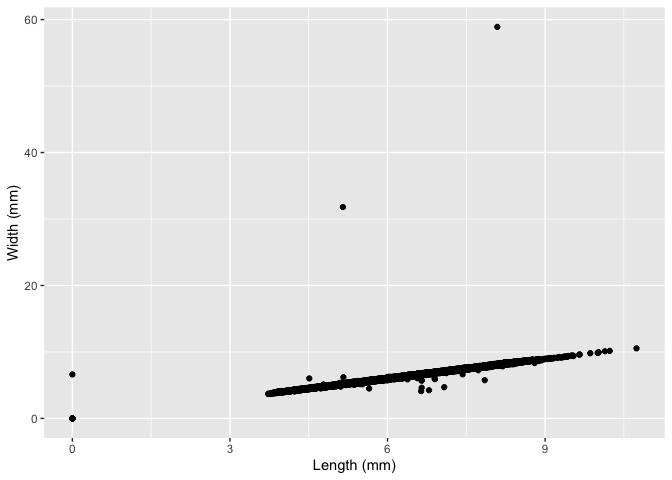
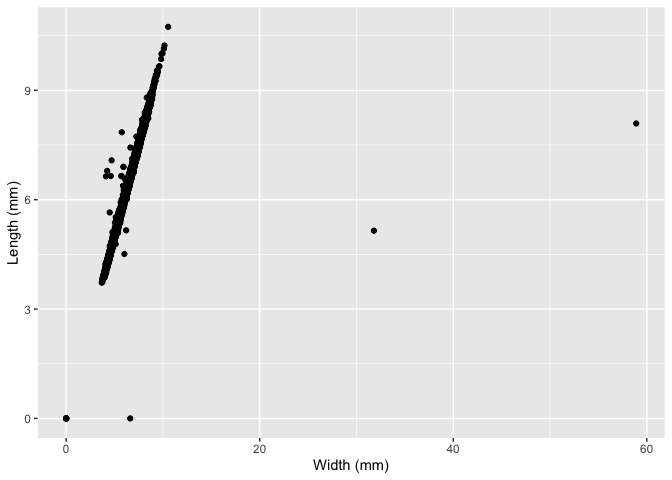
Flipped plot axes

diff --git a/hw_5.md b/hw_5.md
@@ -70,16 +70,16 @@ glimpse(random_subset)
 
     ## Rows: 539
     ## Columns: 10
-    ## $ carat   <dbl> 1.01, 1.02, 0.82, 0.62, 0.30, 1.00, 1.07, 0.32, 1.54, 0.51, 0.…
-    ## $ cut     <ord> Premium, Good, Very Good, Premium, Very Good, Very Good, Premi…
-    ## $ color   <ord> G, D, E, E, E, E, F, E, J, E, D, F, H, H, D, G, H, F, D, H, F,…
-    ## $ clarity <ord> SI1, SI2, SI2, VVS2, SI1, VS1, SI2, SI2, VVS1, VS2, VVS2, VVS2…
-    ## $ depth   <dbl> 62.6, 61.5, 63.3, 62.0, 62.9, 63.2, 61.7, 62.0, 62.4, 62.1, 60…
-    ## $ table   <dbl> 60, 61, 56, 56, 56, 55, 58, 55, 59, 54, 56, 57, 59, 60, 60, 60…
-    ## $ price   <int> 4338, 4318, 2975, 2618, 526, 7532, 4446, 576, 9215, 1608, 1088…
-    ## $ x       <dbl> 6.39, 6.34, 5.99, 5.48, 4.25, 6.34, 6.58, 4.41, 7.36, 5.13, 4.…
-    ## $ y       <dbl> 6.35, 6.41, 5.95, 5.42, 4.30, 6.29, 6.55, 4.36, 7.38, 5.15, 4.…
-    ## $ z       <dbl> 3.99, 3.92, 3.78, 3.38, 2.69, 3.99, 4.05, 2.72, 4.60, 3.19, 2.…
+    ## $ carat   <dbl> 0.52, 0.71, 0.34, 0.71, 1.20, 0.50, 0.42, 0.71, 0.32, 0.55, 2.…
+    ## $ cut     <ord> Ideal, Premium, Ideal, Ideal, Very Good, Ideal, Very Good, Ide…
+    ## $ color   <ord> G, E, F, G, I, G, F, G, D, F, F, G, F, G, D, H, I, F, J, E, E,…
+    ## $ clarity <ord> VVS2, SI1, VS1, VS1, VS1, VVS2, SI2, SI1, VS2, SI1, SI2, SI2, …
+    ## $ depth   <dbl> 60.8, 61.1, 62.1, 61.7, 63.1, 62.3, 61.5, 61.6, 61.0, 61.7, 63…
+    ## $ table   <dbl> 57, 57, 57, 57, 58, 56, 59, 55, 56, 56, 58, 59, 59, 55, 58, 55…
+    ## $ price   <int> 2012, 2629, 745, 3431, 5322, 1935, 710, 3007, 972, 1718, 18686…
+    ## $ x       <dbl> 5.21, 5.73, 4.49, 5.70, 6.70, 5.09, 4.81, 5.72, 4.46, 5.30, 8.…
+    ## $ y       <dbl> 5.16, 5.69, 4.53, 5.75, 6.62, 5.05, 4.85, 5.78, 4.42, 5.26, 8.…
+    ## $ z       <dbl> 3.15, 3.49, 2.80, 3.53, 4.20, 3.16, 2.97, 3.54, 2.71, 3.25, 5.…
 
 ### 3. Calculate the average size of the 100 largest diamonds in each clarity category
 
@@ -109,8 +109,8 @@ largest.by.clarity
 ``` r
 # First, a plot of x vs. y
 ggplot(diamonds) +
-  geom_point(mapping = aes(x = x, y = y)) +
-  labs(x = "Length (mm)", y = "Width (mm)")
+  geom_point(mapping = aes(y = x, x = y)) +
+  labs(y = "Length (mm)", x = "Width (mm)")
 ```
 
 ![](hw_5_files/figure-gfm/unnamed-chunk-5-1.png)<!-- -->
@@ -118,8 +118,8 @@ ggplot(diamonds) +
 ``` r
 # Next, a plot of x vs. z
 ggplot(diamonds) +
-  geom_point(mapping = aes(x = x, y = z)) +
-  labs(x = "Length (mm)", y = "Depth (mm)")
+  geom_point(mapping = aes(y = x, x = z)) +
+  labs(y = "Length (mm)", x = "Depth (mm)")
 ```
 
 ![](hw_5_files/figure-gfm/unnamed-chunk-5-2.png)<!-- -->
